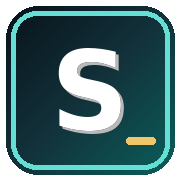
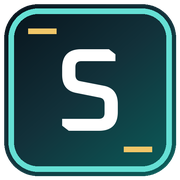
Create squared robotic S monogram

diff --git a/index.html b/index.html
@@ -4,14 +4,14 @@
   <meta charset="utf-8">
   <meta name="viewport" content="width=device-width, initial-scale=1">
   <script>document.documentElement.dataset.theme = localStorage.getItem("sajid-site-theme-v2") || "dark";</script>
-  <link rel="icon" type="image/png" sizes="16x16" href="assets/favicon-16.png?v=20260913-navlogo18">
-  <link rel="icon" href="favicon.ico?v=20260913-navlogo18" sizes="any">
-  <link rel="icon" type="image/png" sizes="32x32" href="assets/favicon-32.png?v=20260913-navlogo18">
-  <link rel="icon" type="image/png" sizes="192x192" href="assets/favicon-192.png?v=20260913-navlogo18">
-  <link rel="apple-touch-icon" sizes="180x180" href="assets/apple-touch-icon.png?v=20260913-navlogo18">
+  <link rel="icon" type="image/png" sizes="16x16" href="assets/favicon-16.png?v=20260919-robot1">
+  <link rel="icon" href="favicon.ico?v=20260919-robot1" sizes="any">
+  <link rel="icon" type="image/png" sizes="32x32" href="assets/favicon-32.png?v=20260919-robot1">
+  <link rel="icon" type="image/png" sizes="192x192" href="assets/favicon-192.png?v=20260919-robot1">
+  <link rel="apple-touch-icon" sizes="180x180" href="assets/apple-touch-icon.png?v=20260919-robot1">
   <title>Md. Sajid Alam Chowdhury | Trustworthy Multimodal AI</title>
   <meta name="description" content="Md. Sajid Alam Chowdhury is a Computer Science PhD student at Wayne State University researching trustworthy multimodal AI, privacy-aware vision-language reasoning, adversarial robustness, and long-horizon video understanding.">
-  <link rel="stylesheet" href="assets/site.css?v=20260919-navmatch2">
+  <link rel="stylesheet" href="assets/site.css?v=20260919-robot1">
   <script src="assets/lucide.min.js?v=20260913-polish70" defer></script>
   <script src="assets/site.js?v=20260913-polish71" defer></script>
 </head>

diff --git a/publications/unified-adversarial-defence-2026.html b/publications/unified-adversarial-defence-2026.html
@@ -4,14 +4,14 @@
   <meta charset="utf-8">
   <meta name="viewport" content="width=device-width, initial-scale=1">
   <script>document.documentElement.dataset.theme = localStorage.getItem("sajid-site-theme-v2") || "dark";</script>
-  <link rel="icon" type="image/png" sizes="16x16" href="../assets/favicon-16.png?v=20260913-navlogo18">
-  <link rel="icon" href="../favicon.ico?v=20260913-navlogo18" sizes="any">
-  <link rel="icon" type="image/png" sizes="32x32" href="../assets/favicon-32.png?v=20260913-navlogo18">
-  <link rel="icon" type="image/png" sizes="192x192" href="../assets/favicon-192.png?v=20260913-navlogo18">
-  <link rel="apple-touch-icon" sizes="180x180" href="../assets/apple-touch-icon.png?v=20260913-navlogo18">
+  <link rel="icon" type="image/png" sizes="16x16" href="../assets/favicon-16.png?v=20260919-robot1">
+  <link rel="icon" href="../favicon.ico?v=20260919-robot1" sizes="any">
+  <link rel="icon" type="image/png" sizes="32x32" href="../assets/favicon-32.png?v=20260919-robot1">
+  <link rel="icon" type="image/png" sizes="192x192" href="../assets/favicon-192.png?v=20260919-robot1">
+  <link rel="apple-touch-icon" sizes="180x180" href="../assets/apple-touch-icon.png?v=20260919-robot1">
   <title>A Unified Adversarial Defence Framework · Md. Sajid Alam Chowdhury</title>
   <meta name="description" content="Paper page for A Unified Adversarial Defence Framework by Md. Sajid Alam Chowdhury, Md. Khairul Islam, and Kaushik Deb.">
-  <link rel="stylesheet" href="../assets/site.css?v=20260919-navmatch2">
+  <link rel="stylesheet" href="../assets/site.css?v=20260919-robot1">
   <script src="../assets/lucide.min.js?v=20260913-polish70" defer></script>
   <script src="../assets/site.js?v=20260913-polish71" defer></script>
 </head>

diff --git a/research.html b/research.html
@@ -4,14 +4,14 @@
   <meta charset="utf-8">
   <meta name="viewport" content="width=device-width, initial-scale=1">
   <script>document.documentElement.dataset.theme = localStorage.getItem("sajid-site-theme-v2") || "dark";</script>
-  <link rel="icon" type="image/png" sizes="16x16" href="assets/favicon-16.png?v=20260913-navlogo18">
-  <link rel="icon" href="favicon.ico?v=20260913-navlogo18" sizes="any">
-  <link rel="icon" type="image/png" sizes="32x32" href="assets/favicon-32.png?v=20260913-navlogo18">
-  <link rel="icon" type="image/png" sizes="192x192" href="assets/favicon-192.png?v=20260913-navlogo18">
-  <link rel="apple-touch-icon" sizes="180x180" href="assets/apple-touch-icon.png?v=20260913-navlogo18">
+  <link rel="icon" type="image/png" sizes="16x16" href="assets/favicon-16.png?v=20260919-robot1">
+  <link rel="icon" href="favicon.ico?v=20260919-robot1" sizes="any">
+  <link rel="icon" type="image/png" sizes="32x32" href="assets/favicon-32.png?v=20260919-robot1">
+  <link rel="icon" type="image/png" sizes="192x192" href="assets/favicon-192.png?v=20260919-robot1">
+  <link rel="apple-touch-icon" sizes="180x180" href="assets/apple-touch-icon.png?v=20260919-robot1">
   <title>Research · Md. Sajid Alam Chowdhury</title>
   <meta name="description" content="Research profile of Md. Sajid Alam Chowdhury in trustworthy multimodal AI, Privacy-Aware Vision-Language Reasoning, Adversarial Robustness &amp; Security, and Long-Horizon Video Understanding.">
-  <link rel="stylesheet" href="assets/site.css?v=20260919-navmatch2">
+  <link rel="stylesheet" href="assets/site.css?v=20260919-robot1">
   <script src="assets/lucide.min.js?v=20260913-polish70" defer></script>
   <script src="assets/site.js?v=20260913-polish71" defer></script>
 </head>

diff --git a/publications/ddpm-adversarial-purification-2026.html b/publications/ddpm-adversarial-purification-2026.html
@@ -4,14 +4,14 @@
   <meta charset="utf-8">
   <meta name="viewport" content="width=device-width, initial-scale=1">
   <script>document.documentElement.dataset.theme = localStorage.getItem("sajid-site-theme-v2") || "dark";</script>
-  <link rel="icon" type="image/png" sizes="16x16" href="../assets/favicon-16.png?v=20260913-navlogo18">
-  <link rel="icon" href="../favicon.ico?v=20260913-navlogo18" sizes="any">
-  <link rel="icon" type="image/png" sizes="32x32" href="../assets/favicon-32.png?v=20260913-navlogo18">
-  <link rel="icon" type="image/png" sizes="192x192" href="../assets/favicon-192.png?v=20260913-navlogo18">
-  <link rel="apple-touch-icon" sizes="180x180" href="../assets/apple-touch-icon.png?v=20260913-navlogo18">
+  <link rel="icon" type="image/png" sizes="16x16" href="../assets/favicon-16.png?v=20260919-robot1">
+  <link rel="icon" href="../favicon.ico?v=20260919-robot1" sizes="any">
+  <link rel="icon" type="image/png" sizes="32x32" href="../assets/favicon-32.png?v=20260919-robot1">
+  <link rel="icon" type="image/png" sizes="192x192" href="../assets/favicon-192.png?v=20260919-robot1">
+  <link rel="apple-touch-icon" sizes="180x180" href="../assets/apple-touch-icon.png?v=20260919-robot1">
   <title>DDPM-Based Adversarial Purification · Md. Sajid Alam Chowdhury</title>
   <meta name="description" content="Paper page for Towards Developing a DDPM-Based Adversarial Purification Method with Noise-Guided Timestep Selection.">
-  <link rel="stylesheet" href="../assets/site.css?v=20260919-navmatch2">
+  <link rel="stylesheet" href="../assets/site.css?v=20260919-robot1">
   <script src="../assets/lucide.min.js?v=20260913-polish70" defer></script>
   <script src="../assets/site.js?v=20260913-polish71" defer></script>
 </head>

diff --git a/projects.html b/projects.html
@@ -4,14 +4,14 @@
   <meta charset="utf-8">
   <meta name="viewport" content="width=device-width, initial-scale=1">
   <script>document.documentElement.dataset.theme = localStorage.getItem("sajid-site-theme-v2") || "dark";</script>
-  <link rel="icon" type="image/png" sizes="16x16" href="assets/favicon-16.png?v=20260913-navlogo18">
-  <link rel="icon" href="favicon.ico?v=20260913-navlogo18" sizes="any">
-  <link rel="icon" type="image/png" sizes="32x32" href="assets/favicon-32.png?v=20260913-navlogo18">
-  <link rel="icon" type="image/png" sizes="192x192" href="assets/favicon-192.png?v=20260913-navlogo18">
-  <link rel="apple-touch-icon" sizes="180x180" href="assets/apple-touch-icon.png?v=20260913-navlogo18">
+  <link rel="icon" type="image/png" sizes="16x16" href="assets/favicon-16.png?v=20260919-robot1">
+  <link rel="icon" href="favicon.ico?v=20260919-robot1" sizes="any">
+  <link rel="icon" type="image/png" sizes="32x32" href="assets/favicon-32.png?v=20260919-robot1">
+  <link rel="icon" type="image/png" sizes="192x192" href="assets/favicon-192.png?v=20260919-robot1">
+  <link rel="apple-touch-icon" sizes="180x180" href="assets/apple-touch-icon.png?v=20260919-robot1">
   <title>Research Areas · Md. Sajid Alam Chowdhury</title>
   <meta name="description" content="Research areas for Md. Sajid Alam Chowdhury: Privacy-Aware Vision-Language Reasoning, Adversarial Robustness &amp; Security, and Long-Horizon Video Understanding.">
-  <link rel="stylesheet" href="assets/site.css?v=20260919-navmatch2">
+  <link rel="stylesheet" href="assets/site.css?v=20260919-robot1">
   <script src="assets/lucide.min.js?v=20260913-polish70" defer></script>
   <script src="assets/site.js?v=20260913-polish71" defer></script>
 </head>

diff --git a/publications.html b/publications.html
@@ -4,14 +4,14 @@
   <meta charset="utf-8">
   <meta name="viewport" content="width=device-width, initial-scale=1">
   <script>document.documentElement.dataset.theme = localStorage.getItem("sajid-site-theme-v2") || "dark";</script>
-  <link rel="icon" type="image/png" sizes="16x16" href="assets/favicon-16.png?v=20260913-navlogo18">
-  <link rel="icon" href="favicon.ico?v=20260913-navlogo18" sizes="any">
-  <link rel="icon" type="image/png" sizes="32x32" href="assets/favicon-32.png?v=20260913-navlogo18">
-  <link rel="icon" type="image/png" sizes="192x192" href="assets/favicon-192.png?v=20260913-navlogo18">
-  <link rel="apple-touch-icon" sizes="180x180" href="assets/apple-touch-icon.png?v=20260913-navlogo18">
+  <link rel="icon" type="image/png" sizes="16x16" href="assets/favicon-16.png?v=20260919-robot1">
+  <link rel="icon" href="favicon.ico?v=20260919-robot1" sizes="any">
+  <link rel="icon" type="image/png" sizes="32x32" href="assets/favicon-32.png?v=20260919-robot1">
+  <link rel="icon" type="image/png" sizes="192x192" href="assets/favicon-192.png?v=20260919-robot1">
+  <link rel="apple-touch-icon" sizes="180x180" href="assets/apple-touch-icon.png?v=20260919-robot1">
   <title>Publications · Md. Sajid Alam Chowdhury</title>
   <meta name="description" content="Publications by Md. Sajid Alam Chowdhury in adversarial defense, multimodal learning, NLP, and trustworthy AI.">
-  <link rel="stylesheet" href="assets/site.css?v=20260919-navmatch2">
+  <link rel="stylesheet" href="assets/site.css?v=20260919-robot1">
   <script src="assets/lucide.min.js?v=20260913-polish70" defer></script>
   <script src="assets/site.js?v=20260913-polish71" defer></script>
 </head>

diff --git a/publications/dravidianlangtech-2025.html b/publications/dravidianlangtech-2025.html
@@ -4,14 +4,14 @@
   <meta charset="utf-8">
   <meta name="viewport" content="width=device-width, initial-scale=1">
   <script>document.documentElement.dataset.theme = localStorage.getItem("sajid-site-theme-v2") || "dark";</script>
-  <link rel="icon" type="image/png" sizes="16x16" href="../assets/favicon-16.png?v=20260913-navlogo18">
-  <link rel="icon" href="../favicon.ico?v=20260913-navlogo18" sizes="any">
-  <link rel="icon" type="image/png" sizes="32x32" href="../assets/favicon-32.png?v=20260913-navlogo18">
-  <link rel="icon" type="image/png" sizes="192x192" href="../assets/favicon-192.png?v=20260913-navlogo18">
-  <link rel="apple-touch-icon" sizes="180x180" href="../assets/apple-touch-icon.png?v=20260913-navlogo18">
+  <link rel="icon" type="image/png" sizes="16x16" href="../assets/favicon-16.png?v=20260919-robot1">
+  <link rel="icon" href="../favicon.ico?v=20260919-robot1" sizes="any">
+  <link rel="icon" type="image/png" sizes="32x32" href="../assets/favicon-32.png?v=20260919-robot1">
+  <link rel="icon" type="image/png" sizes="192x192" href="../assets/favicon-192.png?v=20260919-robot1">
+  <link rel="apple-touch-icon" sizes="180x180" href="../assets/apple-touch-icon.png?v=20260919-robot1">
   <title>DravidianLangTech 2025 · Md. Sajid Alam Chowdhury</title>
   <meta name="description" content="Paper page for Fired_from_NLP@DravidianLangTech 2025.">
-  <link rel="stylesheet" href="../assets/site.css?v=20260919-navmatch2">
+  <link rel="stylesheet" href="../assets/site.css?v=20260919-robot1">
   <script src="../assets/lucide.min.js?v=20260913-polish70" defer></script>
   <script src="../assets/site.js?v=20260913-polish71" defer></script>
 </head>

diff --git a/publications/semeval-2024.html b/publications/semeval-2024.html
@@ -4,14 +4,14 @@
   <meta charset="utf-8">
   <meta name="viewport" content="width=device-width, initial-scale=1">
   <script>document.documentElement.dataset.theme = localStorage.getItem("sajid-site-theme-v2") || "dark";</script>
-  <link rel="icon" type="image/png" sizes="16x16" href="../assets/favicon-16.png?v=20260913-navlogo18">
-  <link rel="icon" href="../favicon.ico?v=20260913-navlogo18" sizes="any">
-  <link rel="icon" type="image/png" sizes="32x32" href="../assets/favicon-32.png?v=20260913-navlogo18">
-  <link rel="icon" type="image/png" sizes="192x192" href="../assets/favicon-192.png?v=20260913-navlogo18">
-  <link rel="apple-touch-icon" sizes="180x180" href="../assets/apple-touch-icon.png?v=20260913-navlogo18">
+  <link rel="icon" type="image/png" sizes="16x16" href="../assets/favicon-16.png?v=20260919-robot1">
+  <link rel="icon" href="../favicon.ico?v=20260919-robot1" sizes="any">
+  <link rel="icon" type="image/png" sizes="32x32" href="../assets/favicon-32.png?v=20260919-robot1">
+  <link rel="icon" type="image/png" sizes="192x192" href="../assets/favicon-192.png?v=20260919-robot1">
+  <link rel="apple-touch-icon" sizes="180x180" href="../assets/apple-touch-icon.png?v=20260919-robot1">
   <title>SemEval 2024 · Md. Sajid Alam Chowdhury</title>
   <meta name="description" content="Paper page for Fired_from_NLP at SemEval-2024 Task 1.">
-  <link rel="stylesheet" href="../assets/site.css?v=20260919-navmatch2">
+  <link rel="stylesheet" href="../assets/site.css?v=20260919-robot1">
   <script src="../assets/lucide.min.js?v=20260913-polish70" defer></script>
   <script src="../assets/site.js?v=20260913-polish71" defer></script>
 </head>

diff --git a/publications/checkthat-2024.html b/publications/checkthat-2024.html
@@ -4,14 +4,14 @@
   <meta charset="utf-8">
   <meta name="viewport" content="width=device-width, initial-scale=1">
   <script>document.documentElement.dataset.theme = localStorage.getItem("sajid-site-theme-v2") || "dark";</script>
-  <link rel="icon" type="image/png" sizes="16x16" href="../assets/favicon-16.png?v=20260913-navlogo18">
-  <link rel="icon" href="../favicon.ico?v=20260913-navlogo18" sizes="any">
-  <link rel="icon" type="image/png" sizes="32x32" href="../assets/favicon-32.png?v=20260913-navlogo18">
-  <link rel="icon" type="image/png" sizes="192x192" href="../assets/favicon-192.png?v=20260913-navlogo18">
-  <link rel="apple-touch-icon" sizes="180x180" href="../assets/apple-touch-icon.png?v=20260913-navlogo18">
+  <link rel="icon" type="image/png" sizes="16x16" href="../assets/favicon-16.png?v=20260919-robot1">
+  <link rel="icon" href="../favicon.ico?v=20260919-robot1" sizes="any">
+  <link rel="icon" type="image/png" sizes="32x32" href="../assets/favicon-32.png?v=20260919-robot1">
+  <link rel="icon" type="image/png" sizes="192x192" href="../assets/favicon-192.png?v=20260919-robot1">
+  <link rel="apple-touch-icon" sizes="180x180" href="../assets/apple-touch-icon.png?v=20260919-robot1">
   <title>CheckThat! 2024 · Md. Sajid Alam Chowdhury</title>
   <meta name="description" content="Paper page for Fired_from_NLP at CheckThat! 2024.">
-  <link rel="stylesheet" href="../assets/site.css?v=20260919-navmatch2">
+  <link rel="stylesheet" href="../assets/site.css?v=20260919-robot1">
   <script src="../assets/lucide.min.js?v=20260913-polish70" defer></script>
   <script src="../assets/site.js?v=20260913-polish71" defer></script>
 </head>

diff --git a/publications/arafinnlp-2024.html b/publications/arafinnlp-2024.html
@@ -4,14 +4,14 @@
   <meta charset="utf-8">
   <meta name="viewport" content="width=device-width, initial-scale=1">
   <script>document.documentElement.dataset.theme = localStorage.getItem("sajid-site-theme-v2") || "dark";</script>
-  <link rel="icon" type="image/png" sizes="16x16" href="../assets/favicon-16.png?v=20260913-navlogo18">
-  <link rel="icon" href="../favicon.ico?v=20260913-navlogo18" sizes="any">
-  <link rel="icon" type="image/png" sizes="32x32" href="../assets/favicon-32.png?v=20260913-navlogo18">
-  <link rel="icon" type="image/png" sizes="192x192" href="../assets/favicon-192.png?v=20260913-navlogo18">
-  <link rel="apple-touch-icon" sizes="180x180" href="../assets/apple-touch-icon.png?v=20260913-navlogo18">
+  <link rel="icon" type="image/png" sizes="16x16" href="../assets/favicon-16.png?v=20260919-robot1">
+  <link rel="icon" href="../favicon.ico?v=20260919-robot1" sizes="any">
+  <link rel="icon" type="image/png" sizes="32x32" href="../assets/favicon-32.png?v=20260919-robot1">
+  <link rel="icon" type="image/png" sizes="192x192" href="../assets/favicon-192.png?v=20260919-robot1">
+  <link rel="apple-touch-icon" sizes="180x180" href="../assets/apple-touch-icon.png?v=20260919-robot1">
   <title>AraFinNLP 2024 · Md. Sajid Alam Chowdhury</title>
   <meta name="description" content="Paper page for Fired_from_NLP at AraFinNLP 2024.">
-  <link rel="stylesheet" href="../assets/site.css?v=20260919-navmatch2">
+  <link rel="stylesheet" href="../assets/site.css?v=20260919-robot1">
   <script src="../assets/lucide.min.js?v=20260913-polish70" defer></script>
   <script src="../assets/site.js?v=20260913-polish71" defer></script>
 </head>

diff --git a/updates.html b/updates.html
@@ -4,14 +4,14 @@
   <meta charset="utf-8">
   <meta name="viewport" content="width=device-width, initial-scale=1">
   <script>document.documentElement.dataset.theme = localStorage.getItem("sajid-site-theme-v2") || "dark";</script>
-  <link rel="icon" type="image/png" sizes="16x16" href="assets/favicon-16.png?v=20260913-navlogo18">
-  <link rel="icon" href="favicon.ico?v=20260913-navlogo18" sizes="any">
-  <link rel="icon" type="image/png" sizes="32x32" href="assets/favicon-32.png?v=20260913-navlogo18">
-  <link rel="icon" type="image/png" sizes="192x192" href="assets/favicon-192.png?v=20260913-navlogo18">
-  <link rel="apple-touch-icon" sizes="180x180" href="assets/apple-touch-icon.png?v=20260913-navlogo18">
+  <link rel="icon" type="image/png" sizes="16x16" href="assets/favicon-16.png?v=20260919-robot1">
+  <link rel="icon" href="favicon.ico?v=20260919-robot1" sizes="any">
+  <link rel="icon" type="image/png" sizes="32x32" href="assets/favicon-32.png?v=20260919-robot1">
+  <link rel="icon" type="image/png" sizes="192x192" href="assets/favicon-192.png?v=20260919-robot1">
+  <link rel="apple-touch-icon" sizes="180x180" href="assets/apple-touch-icon.png?v=20260919-robot1">
   <title>Updates · Md. Sajid Alam Chowdhury</title>
   <meta name="description" content="Recent academic, publication, award, and career updates from Md. Sajid Alam Chowdhury.">
-  <link rel="stylesheet" href="assets/site.css?v=20260919-navmatch2">
+  <link rel="stylesheet" href="assets/site.css?v=20260919-robot1">
   <script src="assets/lucide.min.js?v=20260913-polish70" defer></script>
   <script src="assets/site.js?v=20260913-polish71" defer></script>
 </head>

diff --git a/cv.html b/cv.html
@@ -4,14 +4,14 @@
   <meta charset="utf-8">
   <meta name="viewport" content="width=device-width, initial-scale=1">
   <script>document.documentElement.dataset.theme = localStorage.getItem("sajid-site-theme-v2") || "dark";</script>
-  <link rel="icon" type="image/png" sizes="16x16" href="assets/favicon-16.png?v=20260913-navlogo18">
-  <link rel="icon" href="favicon.ico?v=20260913-navlogo18" sizes="any">
-  <link rel="icon" type="image/png" sizes="32x32" href="assets/favicon-32.png?v=20260913-navlogo18">
-  <link rel="icon" type="image/png" sizes="192x192" href="assets/favicon-192.png?v=20260913-navlogo18">
-  <link rel="apple-touch-icon" sizes="180x180" href="assets/apple-touch-icon.png?v=20260913-navlogo18">
+  <link rel="icon" type="image/png" sizes="16x16" href="assets/favicon-16.png?v=20260919-robot1">
+  <link rel="icon" href="favicon.ico?v=20260919-robot1" sizes="any">
+  <link rel="icon" type="image/png" sizes="32x32" href="assets/favicon-32.png?v=20260919-robot1">
+  <link rel="icon" type="image/png" sizes="192x192" href="assets/favicon-192.png?v=20260919-robot1">
+  <link rel="apple-touch-icon" sizes="180x180" href="assets/apple-touch-icon.png?v=20260919-robot1">
   <title>Curriculum Vitae · Md. Sajid Alam Chowdhury</title>
   <meta name="description" content="Download the CV of Md. Sajid Alam Chowdhury.">
-  <link rel="stylesheet" href="assets/site.css?v=20260919-navmatch2">
+  <link rel="stylesheet" href="assets/site.css?v=20260919-robot1">
   <script src="assets/lucide.min.js?v=20260913-polish70" defer></script>
   <script src="assets/site.js?v=20260913-polish71" defer></script>
 </head>
